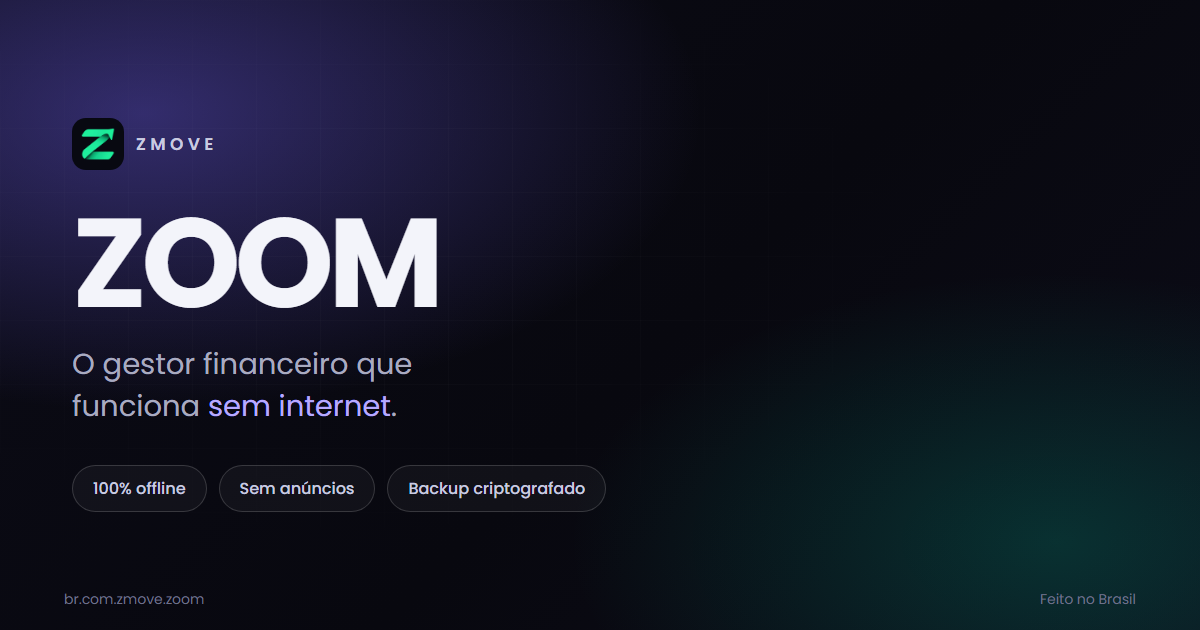
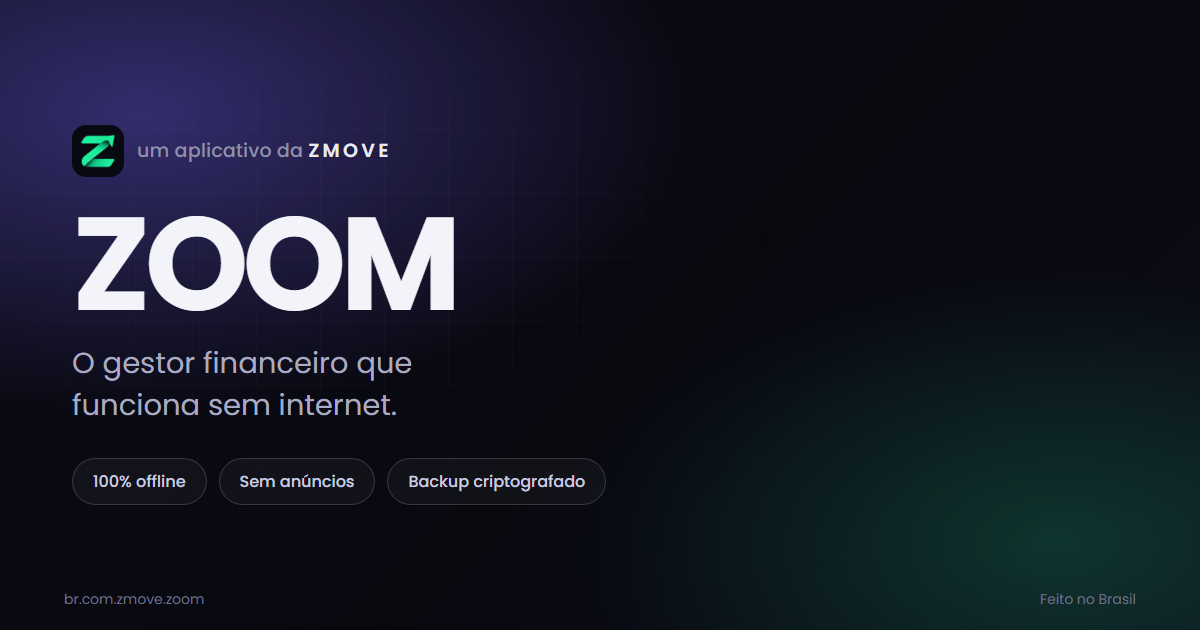
docs: usa o icone real do app (Z verde) e separa ZOOM de ZMOVE
O simbolo do site passa a ser o proprio icone do aplicativo: o Z verde
(#1FF09D) sobre o fundo #080911, extraido de assets/branding/logo.png.

- favicon.svg: Z tracado em vetor a partir do logo do app (17 segmentos)
- icon-192.png / icon-512.png / play-icon-512.png: regerados com o Z verde
  (o da Play e opaco 512x512, igual ao icone do launcher do Android)
- feature-graphic e og-zoom regerados com o icone verde e o selo ZMOVE
- cabecalho e rodape: marca unica em SVG inline (sem requisicao extra)
- cabecalho: ZOOM + selo 'da ZMOVE'; rodape: 'Aplicativo da ZMOVE'
- hero: 'ZOOM - aplicativo da ZMOVE'; og:site_name = ZOOM nas 3 paginas
- JSON-LD: publisher ZMOVE no SoftwareApplication
- README: secao nova 'Marca (ZOOM x ZMOVE)'

Validado em Chrome headless a 1280px e 390px: 0 overflow horizontal,
0 imagens quebradas, 4 fontes Poppins carregadas, 15 ancoras internas ok,
0 erros de console. Nenhuma alteracao no codigo do aplicativo.

diff --git a/docs/index.html b/docs/index.html
@@ -9,7 +9,7 @@
 <meta name="author" content="ZMOVE">
 <link rel="canonical" href="https://zmove.net/">
 <meta property="og:type" content="website">
-<meta property="og:site_name" content="ZMOVE">
+<meta property="og:site_name" content="ZOOM">
 <meta property="og:locale" content="pt_BR">
 <meta property="og:title" content="ZOOM — o gestor financeiro 100% offline">
 <meta property="og:description" content="Controle receitas, despesas, metas e o diário das suas decisões em um app que não precisa de internet. Teste grátis por 3 dias.">
@@ -44,6 +44,7 @@
   "applicationCategory": "FinanceApplication",
   "operatingSystem": "Android 6.0 ou superior",
   "description": "Gestor financeiro pessoal 100% offline: extrato, metas, orçamentos, lembretes e diário.",
+  "publisher": { "@type": "Organization", "name": "ZMOVE" },
   "softwareVersion": "1.0.0",
   "inLanguage": "pt-BR",
   "offers": { "@type": "Offer", "price": "0", "priceCurrency": "BRL" },
@@ -56,11 +57,9 @@
 
 <header class="topbar" id="topo">
   <div class="wrap topbar__inner">
-    <a class="brand" href="index.html" aria-label="ZMOVE — página inicial">
-      <span class="brand__mark" aria-hidden="true">
-        <svg viewBox="0 0 32 32" width="28" height="28"><defs><linearGradient id="bg1" x1="0" y1="0" x2="1" y2="1"><stop offset="0" stop-color="#8E7CFF"/><stop offset="1" stop-color="#6C5CE7"/></linearGradient></defs><rect width="32" height="32" rx="9" fill="url(#bg1)"/><path d="M9 10.5h14L12.5 21.5H23" fill="none" stroke="#fff" stroke-width="2.6" stroke-linecap="round" stroke-linejoin="round"/></svg>
-      </span>
-      <span class="brand__name">ZMOVE</span>
+    <a class="brand" href="index.html" aria-label="ZOOM — aplicativo da ZMOVE">
+      <span class="brand__mark" aria-hidden="true"><svg viewBox="0 0 677 652" width="21" height="20"><path d="M652 4 L673 27 L611 239 L546 226 L225 485 L666 501 L598 620 L553 647 L106 645 L74 622 L42 618 L10 555 L38 454 L27 173 L4 144 L90 35 L566 19 Z" fill="#1FF09D"/></svg></span>
+      <span class="brand__name">ZOOM</span><span class="brand__by">da ZMOVE</span>
     </a>
     <nav class="nav" aria-label="Navegação principal">
       <a href="#recursos">Recursos</a>
@@ -88,7 +87,7 @@
     <div class="hero__glow" aria-hidden="true"></div>
     <div class="wrap hero__grid">
       <div class="hero__copy">
-        <p class="eyebrow"><span class="dot"></span> ZMOVE &nbsp;·&nbsp; Aplicativos para o seu dia a dia</p>
+        <p class="eyebrow"><span class="dot"></span> ZOOM &nbsp;·&nbsp; aplicativo da ZMOVE</p>
         <h1>Seu dinheiro, organizado.<br><span class="grad">Sem depender de internet.</span></h1>
         <p class="lede">O ZOOM é o gestor financeiro que guarda tudo <strong>no seu aparelho</strong>: receitas, despesas, metas, orçamentos, lembretes e o diário das suas decisões. Sem cadastro, sem anúncios e sem pedir permissão de internet.</p>
         <div class="hero__actions">
@@ -329,12 +328,10 @@
   <div class="wrap footer__grid">
     <div>
       <a class="brand" href="index.html">
-        <span class="brand__mark" aria-hidden="true">
-          <svg viewBox="0 0 32 32" width="26" height="26"><defs><linearGradient id="bg2" x1="0" y1="0" x2="1" y2="1"><stop offset="0" stop-color="#8E7CFF"/><stop offset="1" stop-color="#6C5CE7"/></linearGradient></defs><rect width="32" height="32" rx="9" fill="url(#bg2)"/><path d="M9 10.5h14L12.5 21.5H23" fill="none" stroke="#fff" stroke-width="2.6" stroke-linecap="round" stroke-linejoin="round"/></svg>
-        </span>
-        <span class="brand__name">ZMOVE</span>
+        <span class="brand__mark" aria-hidden="true"><svg viewBox="0 0 677 652" width="18" height="17"><path d="M652 4 L673 27 L611 239 L546 226 L225 485 L666 501 L598 620 L553 647 L106 645 L74 622 L42 618 L10 555 L38 454 L27 173 L4 144 L90 35 L566 19 Z" fill="#1FF09D"/></svg></span>
+        <span class="brand__name">ZOOM</span>
       </a>
-      <p class="footer__about">Aplicativos simples, rápidos e discretos para o dia a dia. Feito no Brasil.</p>
+      <p class="footer__about">Aplicativo da <strong>ZMOVE</strong> — simples, rápido e discreto. Feito no Brasil.</p>
     </div>
     <nav aria-label="Rodapé">
       <h4>Produto</h4>

diff --git a/docs/classificacao.html b/docs/classificacao.html
@@ -8,7 +8,7 @@
 <meta name="theme-color" content="#08080F">
 <link rel="canonical" href="https://zmove.net/classificacao.html">
 <meta property="og:type" content="article">
-<meta property="og:site_name" content="ZMOVE">
+<meta property="og:site_name" content="ZOOM">
 <meta property="og:title" content="Classificação de conteúdo — ZOOM">
 <meta property="og:description" content="Livre (L) para todos os públicos. Sem anúncios e sem conteúdo restrito.">
 <meta property="og:url" content="https://zmove.net/classificacao.html">
@@ -21,11 +21,9 @@
 
 <header class="topbar">
   <div class="wrap topbar__inner">
-    <a class="brand" href="index.html" aria-label="ZMOVE — página inicial">
-      <span class="brand__mark" aria-hidden="true">
-        <svg viewBox="0 0 32 32" width="28" height="28"><defs><linearGradient id="bgc" x1="0" y1="0" x2="1" y2="1"><stop offset="0" stop-color="#8E7CFF"/><stop offset="1" stop-color="#6C5CE7"/></linearGradient></defs><rect width="32" height="32" rx="9" fill="url(#bgc)"/><path d="M9 10.5h14L12.5 21.5H23" fill="none" stroke="#fff" stroke-width="2.6" stroke-linecap="round" stroke-linejoin="round"/></svg>
-      </span>
-      <span class="brand__name">ZMOVE</span>
+    <a class="brand" href="index.html" aria-label="ZOOM — aplicativo da ZMOVE">
+      <span class="brand__mark" aria-hidden="true"><svg viewBox="0 0 677 652" width="21" height="20"><path d="M652 4 L673 27 L611 239 L546 226 L225 485 L666 501 L598 620 L553 647 L106 645 L74 622 L42 618 L10 555 L38 454 L27 173 L4 144 L90 35 L566 19 Z" fill="#1FF09D"/></svg></span>
+      <span class="brand__name">ZOOM</span><span class="brand__by">da ZMOVE</span>
     </a>
     <nav class="nav" aria-label="Navegação principal">
       <a href="index.html#recursos">Recursos</a>
@@ -129,10 +127,8 @@
   <div class="wrap footer__grid">
     <div>
       <a class="brand" href="index.html">
-        <span class="brand__mark" aria-hidden="true">
-          <svg viewBox="0 0 32 32" width="26" height="26"><defs><linearGradient id="bgf2" x1="0" y1="0" x2="1" y2="1"><stop offset="0" stop-color="#8E7CFF"/><stop offset="1" stop-color="#6C5CE7"/></linearGradient></defs><rect width="32" height="32" rx="9" fill="url(#bgf2)"/><path d="M9 10.5h14L12.5 21.5H23" fill="none" stroke="#fff" stroke-width="2.6" stroke-linecap="round" stroke-linejoin="round"/></svg>
-        </span>
-        <span class="brand__name">ZMOVE</span>
+        <span class="brand__mark" aria-hidden="true"><svg viewBox="0 0 677 652" width="18" height="17"><path d="M652 4 L673 27 L611 239 L546 226 L225 485 L666 501 L598 620 L553 647 L106 645 L74 622 L42 618 L10 555 L38 454 L27 173 L4 144 L90 35 L566 19 Z" fill="#1FF09D"/></svg></span>
+        <span class="brand__name">ZOOM</span>
       </a>
       <p class="footer__about">Aplicativos simples, rápidos e discretos para o dia a dia. Feito no Brasil.</p>
     </div>

diff --git a/docs/politica-de-privacidade.html b/docs/politica-de-privacidade.html
@@ -8,7 +8,7 @@
 <meta name="theme-color" content="#08080F">
 <link rel="canonical" href="https://zmove.net/politica-de-privacidade.html">
 <meta property="og:type" content="article">
-<meta property="og:site_name" content="ZMOVE">
+<meta property="og:site_name" content="ZOOM">
 <meta property="og:title" content="Política de Privacidade — ZOOM">
 <meta property="og:description" content="O ZOOM é 100% offline: nenhum dado sai do seu aparelho.">
 <meta property="og:url" content="https://zmove.net/politica-de-privacidade.html">
@@ -21,11 +21,9 @@
 
 <header class="topbar">
   <div class="wrap topbar__inner">
-    <a class="brand" href="index.html" aria-label="ZMOVE — página inicial">
-      <span class="brand__mark" aria-hidden="true">
-        <svg viewBox="0 0 32 32" width="28" height="28"><defs><linearGradient id="bgp" x1="0" y1="0" x2="1" y2="1"><stop offset="0" stop-color="#8E7CFF"/><stop offset="1" stop-color="#6C5CE7"/></linearGradient></defs><rect width="32" height="32" rx="9" fill="url(#bgp)"/><path d="M9 10.5h14L12.5 21.5H23" fill="none" stroke="#fff" stroke-width="2.6" stroke-linecap="round" stroke-linejoin="round"/></svg>
-      </span>
-      <span class="brand__name">ZMOVE</span>
+    <a class="brand" href="index.html" aria-label="ZOOM — aplicativo da ZMOVE">
+      <span class="brand__mark" aria-hidden="true"><svg viewBox="0 0 677 652" width="21" height="20"><path d="M652 4 L673 27 L611 239 L546 226 L225 485 L666 501 L598 620 L553 647 L106 645 L74 622 L42 618 L10 555 L38 454 L27 173 L4 144 L90 35 L566 19 Z" fill="#1FF09D"/></svg></span>
+      <span class="brand__name">ZOOM</span><span class="brand__by">da ZMOVE</span>
     </a>
     <nav class="nav" aria-label="Navegação principal">
       <a href="index.html#recursos">Recursos</a>
@@ -159,10 +157,8 @@
   <div class="wrap footer__grid">
     <div>
       <a class="brand" href="index.html">
-        <span class="brand__mark" aria-hidden="true">
-          <svg viewBox="0 0 32 32" width="26" height="26"><defs><linearGradient id="bgf" x1="0" y1="0" x2="1" y2="1"><stop offset="0" stop-color="#8E7CFF"/><stop offset="1" stop-color="#6C5CE7"/></linearGradient></defs><rect width="32" height="32" rx="9" fill="url(#bgf)"/><path d="M9 10.5h14L12.5 21.5H23" fill="none" stroke="#fff" stroke-width="2.6" stroke-linecap="round" stroke-linejoin="round"/></svg>
-        </span>
-        <span class="brand__name">ZMOVE</span>
+        <span class="brand__mark" aria-hidden="true"><svg viewBox="0 0 677 652" width="18" height="17"><path d="M652 4 L673 27 L611 239 L546 226 L225 485 L666 501 L598 620 L553 647 L106 645 L74 622 L42 618 L10 555 L38 454 L27 173 L4 144 L90 35 L566 19 Z" fill="#1FF09D"/></svg></span>
+        <span class="brand__name">ZOOM</span>
       </a>
       <p class="footer__about">Aplicativos simples, rápidos e discretos para o dia a dia. Feito no Brasil.</p>
     </div>

diff --git a/docs/assets/css/site.css b/docs/assets/css/site.css
@@ -57,7 +57,9 @@ code{font-family:ui-monospace,SFMono-Regular,Menlo,Consolas,monospace;font-size:
 .topbar__inner{display:flex;align-items:center;gap:22px;height:68px}
 .brand{display:inline-flex;align-items:center;gap:10px;font-weight:700;letter-spacing:.14em;font-size:15px}
 .brand__name{white-space:nowrap;letter-spacing:.18em}
-.brand__mark{display:grid;place-items:center;filter:drop-shadow(0 6px 14px rgba(108,92,231,.45))}
+.brand__mark{display:grid;place-items:center;width:32px;height:32px;border-radius:10px;
+  background:#080911;box-shadow:inset 0 0 0 1px rgba(255,255,255,.10),0 8px 18px -8px rgba(31,240,157,.55)}
+.brand__by{font-size:11px;font-weight:500;letter-spacing:.16em;color:var(--muted);opacity:.8;white-space:nowrap}
 .nav{display:flex;gap:26px;margin-left:auto;font-size:14.5px;color:var(--muted)}
 .nav a{transition:color .2s}
 .nav a:hover{color:var(--text)}
@@ -266,6 +268,9 @@ code{font-family:ui-monospace,SFMono-Regular,Menlo,Consolas,monospace;font-size:
   .footer__grid{grid-template-columns:1fr}
   .footer__bottom{flex-direction:column;gap:6px}
   .h2{max-width:none}
+}
+@media (max-width:560px){
+  .brand__by{display:none}
 }
 @media (prefers-reduced-motion:reduce){
   html{scroll-behavior:auto}

diff --git a/docs/README.md b/docs/README.md
@@ -82,6 +82,26 @@ As imagens da Google Play e do compartilhamento social ficam em `assets/img/`:
 > (usuário fictício "Marina Costa", outubro/2026) — nada de dados reais.
 > As imagens em PNG já estão no tamanho exigido pela Play (1080×2400).
 
+## Marca (ZOOM × ZMOVE)
+
+- **ZOOM** é o aplicativo. **ZMOVE** é a empresa que o mantém e publica.
+  O cabeçalho mostra `ZOOM` com o selo `da ZMOVE`; o rodapé reforça que o
+  ZOOM é um aplicativo da ZMOVE; a seção `#zmove` é o espaço da empresa.
+- O símbolo é o **mesmo ícone do aplicativo**: o "Z" verde `#1FF09D` sobre o
+  fundo `#080911`. A origem é `assets/branding/logo.png` (e os `mipmap-*` do
+  Android) — nada de um logo redesenhado para o site.
+- Onde ele aparece:
+
+  | Onde | Arquivo | Observação |
+  |---|---|---|
+  | Aba do navegador | `favicon.svg` | "Z" vetorial, traçado a partir do logo do app |
+  | Manifesto do site | `assets/img/icon-192.png`, `icon-512.png` | tile escuro com o "Z" |
+  | Listagem na Play | `assets/img/play-icon-512.png` | 512×512 opaco, igual ao ícone do launcher |
+  | Cabeçalho e rodapé | SVG inline em `index.html` e nas páginas legais | não custa requisição extra |
+
+- Se o ícone do aplicativo mudar, `play-icon-512.png`, `icon-192.png`,
+  `icon-512.png` e `favicon.svg` precisam ser regerados com o novo logo.
+
 
 ## Ajustes de conteúdo pendentes
 
